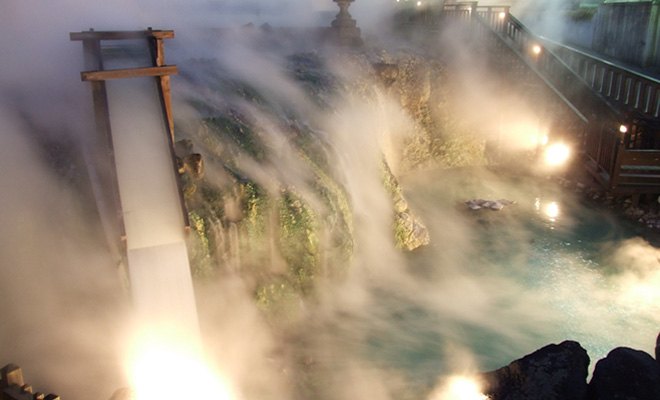
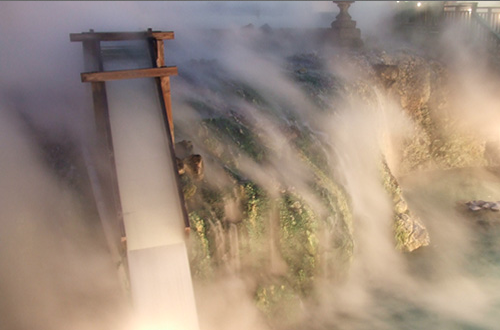
added content to info page

diff --git a/public/main.css b/public/main.css
@@ -58,6 +58,13 @@ nav li:hover a {
 
 #info_title{
   text-align: center;
+  margin-bottom: 100px;
+}
+
+#intro{
+  text-align: center;
+  width: 900px;
+  margin: 0 auto;
   margin-bottom: 50px;
 }
 
@@ -68,15 +75,24 @@ nav li:hover a {
 }
 
 #onsen_water {
-  max-height: 300px;
-  max-width: 600px;
+  max-width: 40%;
   position: relative;
-  margin: 0 31.5% 0 31.5%;
+  float: left;
+  margin: 0 auto;
+}
+
+#mud{
+  display: none;
+}
+
+#yubatake{
+  display: none;
 }
 
 .text{
   display: none;
   position: absolute;
+  right: 40px;
   width: 50%;
   margin-top: 40px;
   margin-left: 20px;
